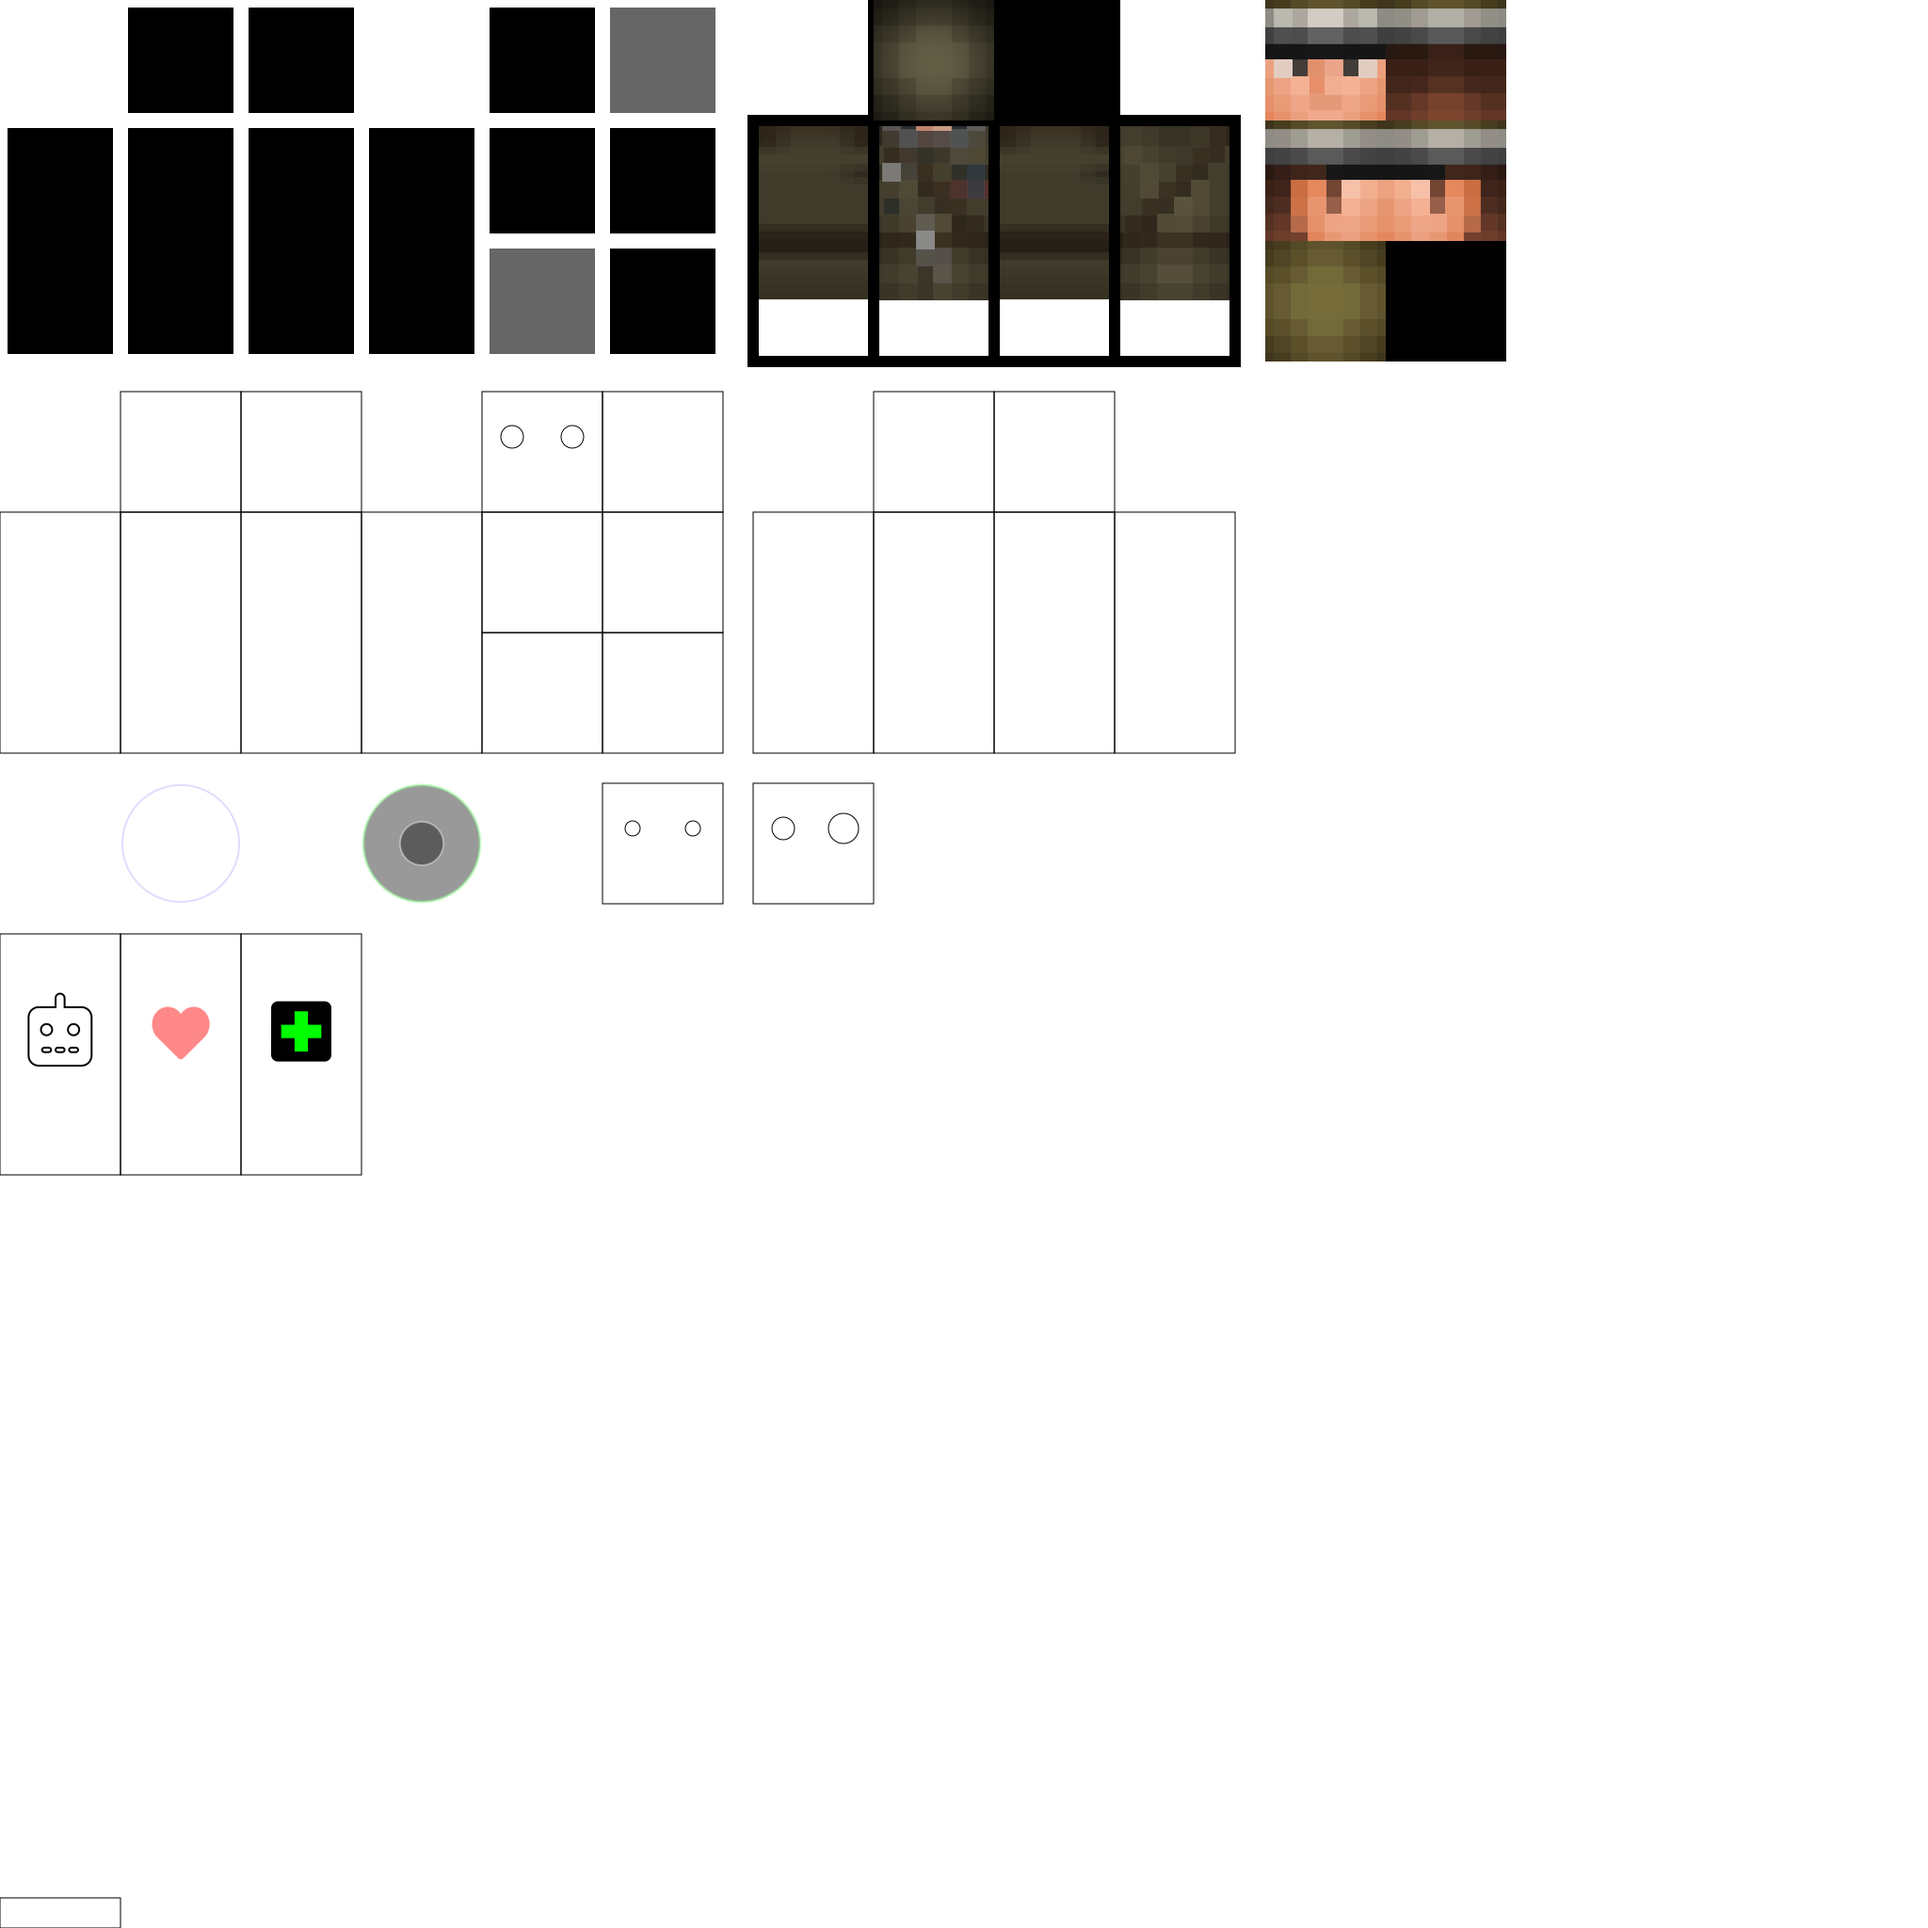
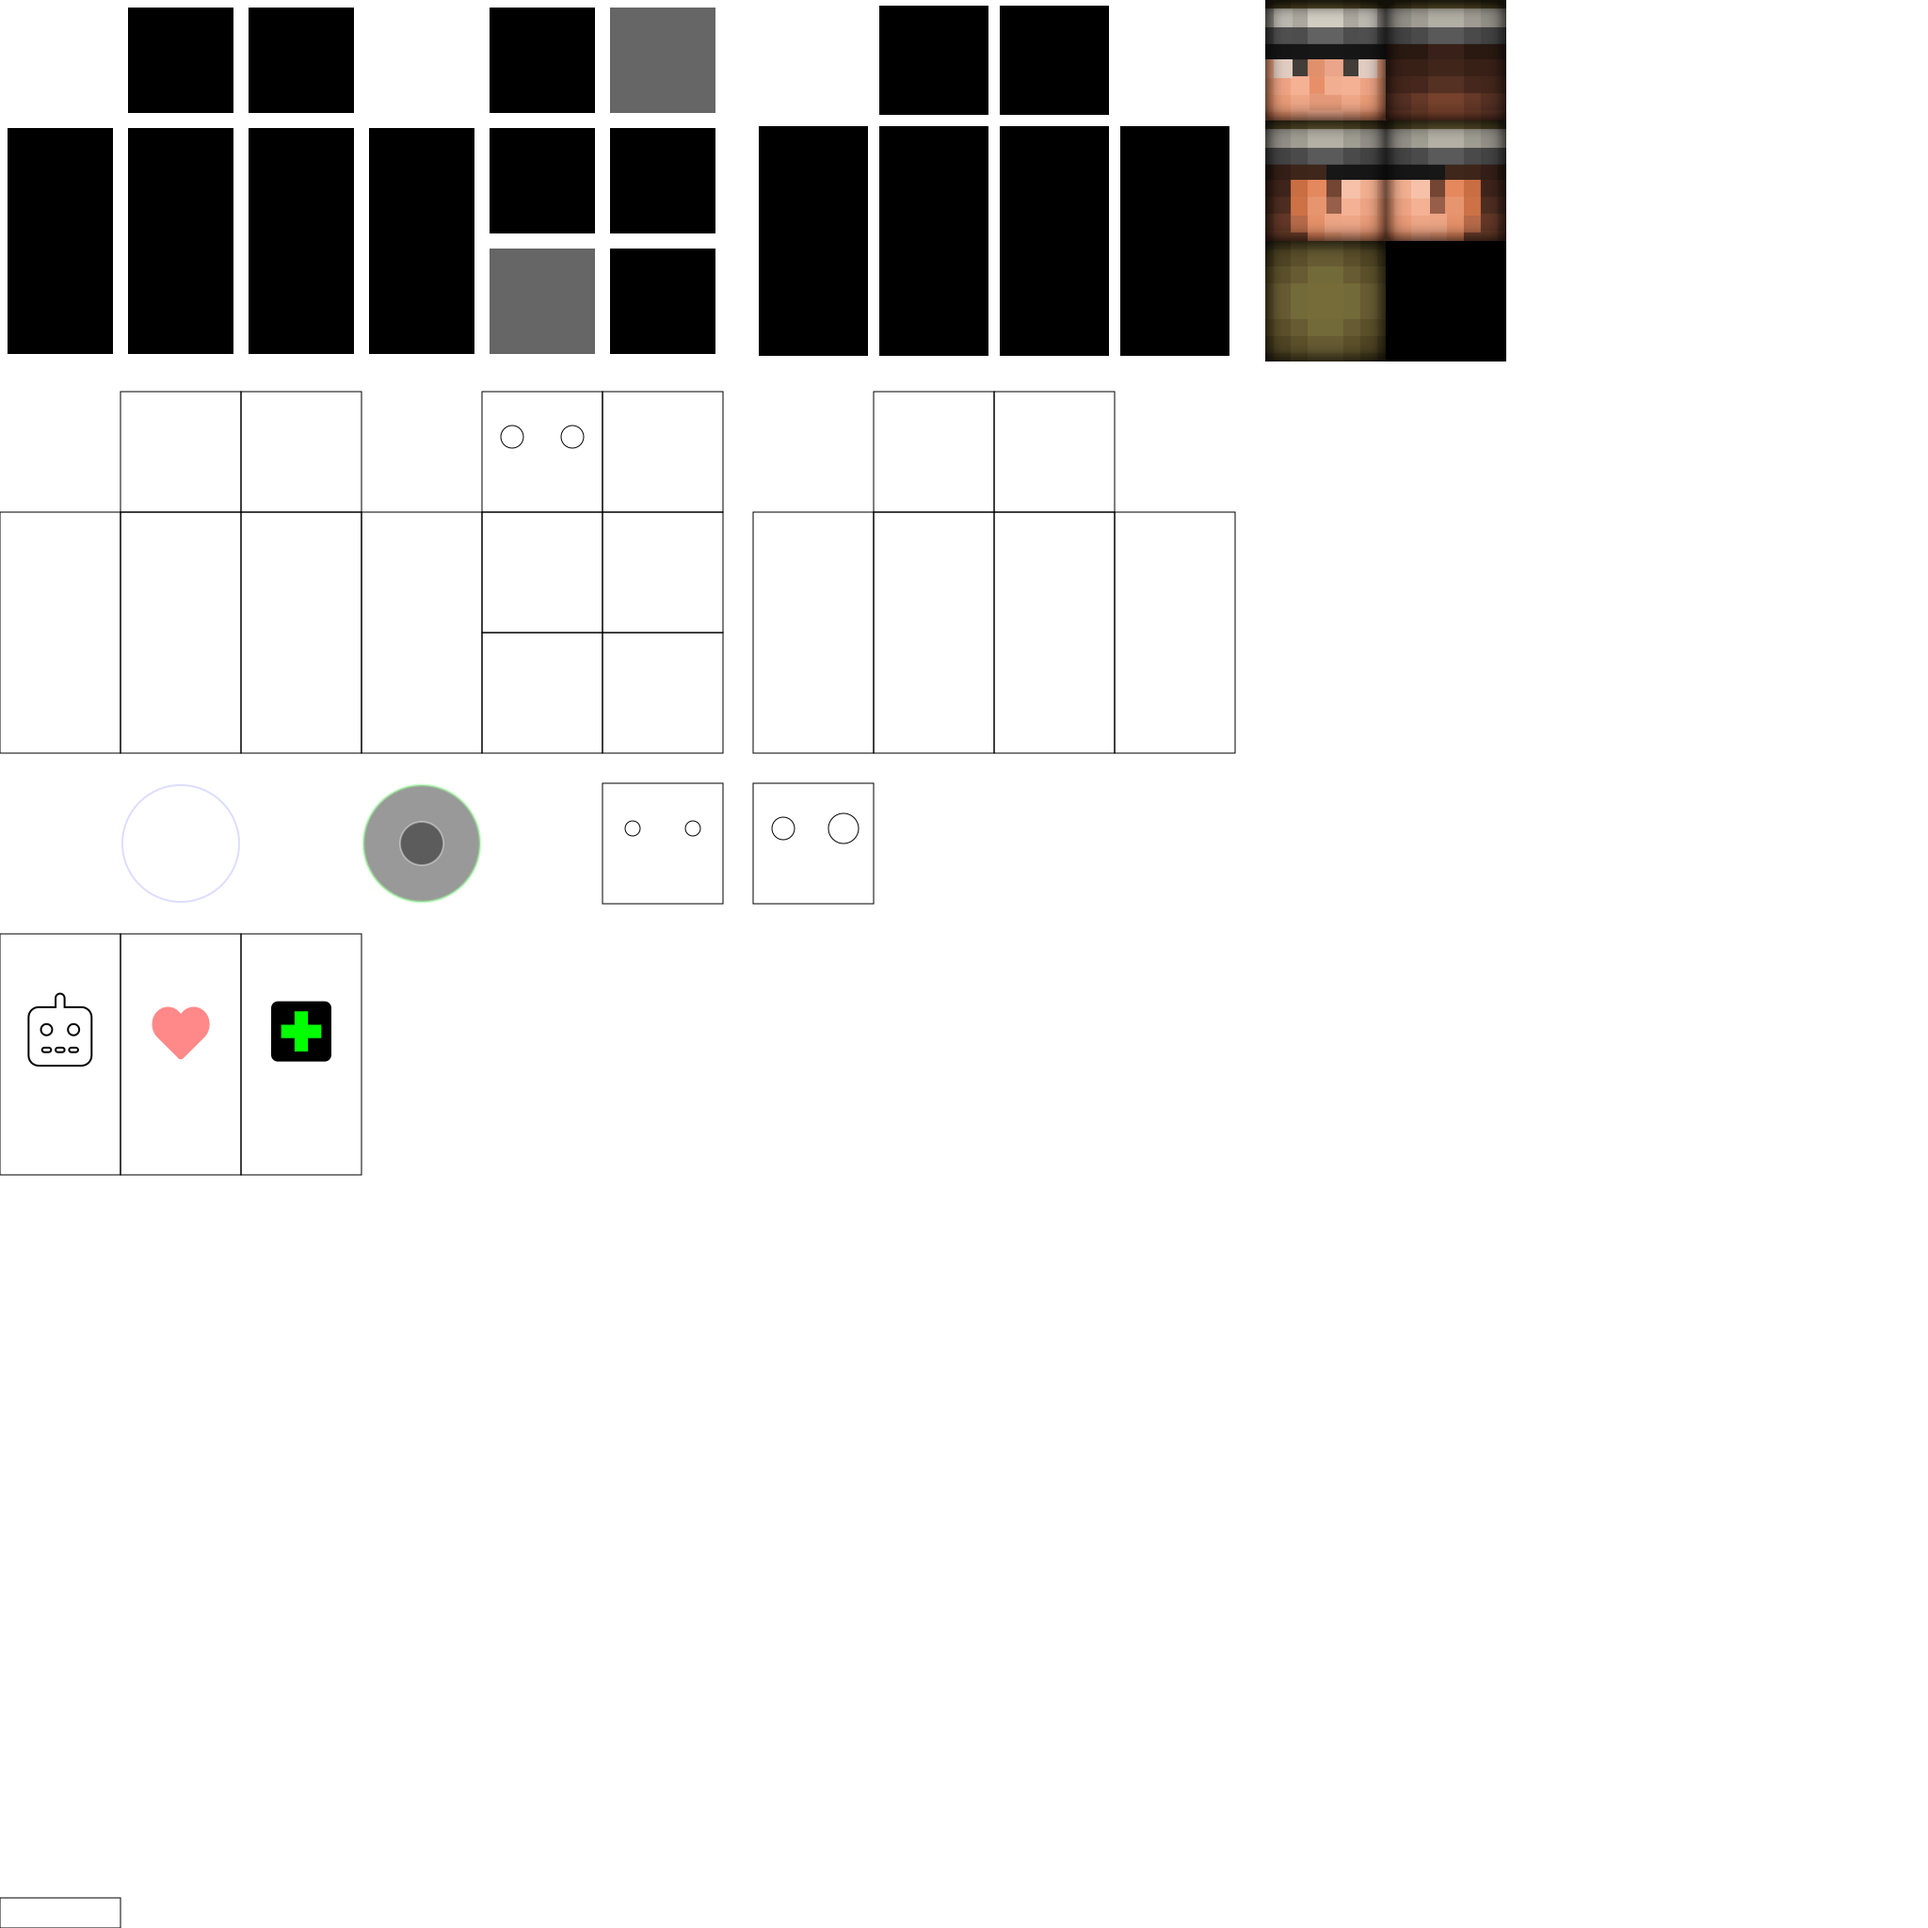
feat: refine minecraft head; towards minecraft body

Changed region(s): [[0.375, 0.0, 0.7812, 0.1875]]

diff --git a/docs/TODO.md b/docs/TODO.md
@@ -165,6 +165,8 @@
       - head-left means from perspective of onlooker (not from character perspective)
       - boxy-svg try compositing > filter > pixelated (pixel size 18)
     - 🚧 try copy soldier body into test-body
+      - ❌ try direct copy
+      - 🚧 try sketch features onto black-with-white-outline body
     - try copy soldier overlay into test-body-overlay
 
   - ✅ IDEA load SVG using `canvas` and somehow convert it into `@napi-rs/canvas` (or `skia-canvas`) format
